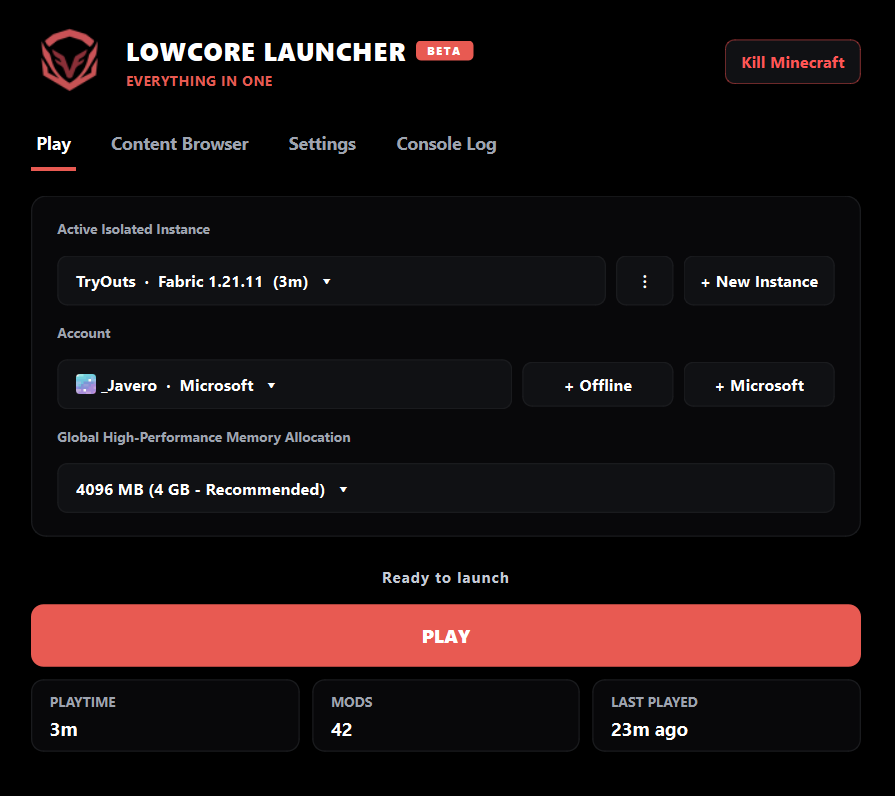
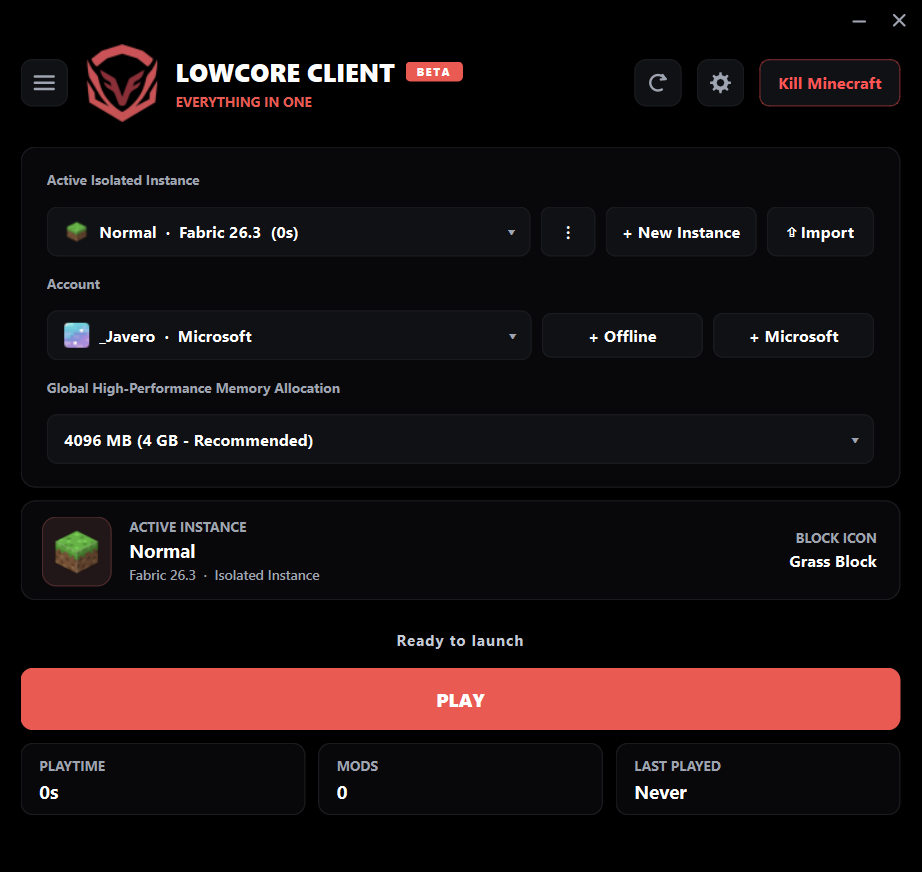
Changes

diff --git a/src/routes/index.tsx b/src/routes/index.tsx
@@ -60,7 +60,7 @@ export const Route = createFileRoute("/")({
 });
 
 const DOWNLOAD_URL =
-  "https://github.com/lowcorelauncher/LowCore-Launcher-WEBSITE-/releases/download/v1.1.0/LowCoreClientSetup.exe";
+  "https://github.com/lowcorelauncher/LowCore-Launcher-Source/releases/download/v1.2.0/LowCoreClientSetup.exe";
 const LINUX_URL =
   "https://github.com/lowcorelauncher/LowCore-Launcher-Source/releases/download/lowcorelinuxV.1.0.0/LowCoreLauncher-Linux.zip";
 const DISCORD_URL = "https://discord.gg/PxF3vqqstC";
@@ -117,7 +117,7 @@ function PlatformDownloadButtons() {
       <DownloadIcon className="h-5 w-5 transition-transform group-hover:translate-y-0.5" />
       <span className="flex flex-col items-start leading-tight">
         <span>Download for Windows (.exe)</span>
-        <span className="text-xs font-normal opacity-80">v1.1.0 • Windows 64-bit</span>
+        <span className="text-xs font-normal opacity-80">v1.2.0 • Windows 64-bit</span>
       </span>
     </a>
   );
@@ -392,9 +392,9 @@ function Hero() {
             <div className="glass-card overflow-hidden rounded-t-2xl rounded-b-md shadow-2xl ring-1 ring-border">
               <img
                 src="/launcher-hero.png"
-                alt="Real LowCore Launcher window: Play tab with isolated instance, account switching, memory allocation and PLAY button"
-                width={895}
-                height={796}
+                alt="LowCore Launcher Play view with active instance, account, memory allocation, and PLAY button"
+                width={922}
+                height={872}
                 className="block w-full"
               />
             </div>
@@ -816,7 +816,7 @@ function Download() {
   const steps = [
     {
       title: "Download",
-      body: "Grab the installer for your platform — LowCoreClientSetup.exe v1.1.0 on Windows or the Linux .zip.",
+      body: "Grab the installer for your platform — LowCoreClientSetup.exe v1.2.0 on Windows or the Linux .zip.",
     },
     {
       title: "Run the installer wizard",

diff --git a/roadmap.md b/roadmap.md
@@ -1,4 +1,5 @@
 - [x] Add Linux install.sh and Ubuntu troubleshooting guidance to the download popup; verify the download and popup flow.
 - [x] Add an interactive 14-theme launcher preview directly below the homepage hero.
 - [x] Add the supplied GitHub repository link and post-download Discord invitation for Windows and Linux.
-- [x] Replace the Windows installer URL and displayed version with the user's v1.1.0 release.
+- [x] Replace the Windows installer URL and displayed version with the user's v1.2.0 release.
+- [x] Replace the homepage launcher screenshot with the newly supplied image.
